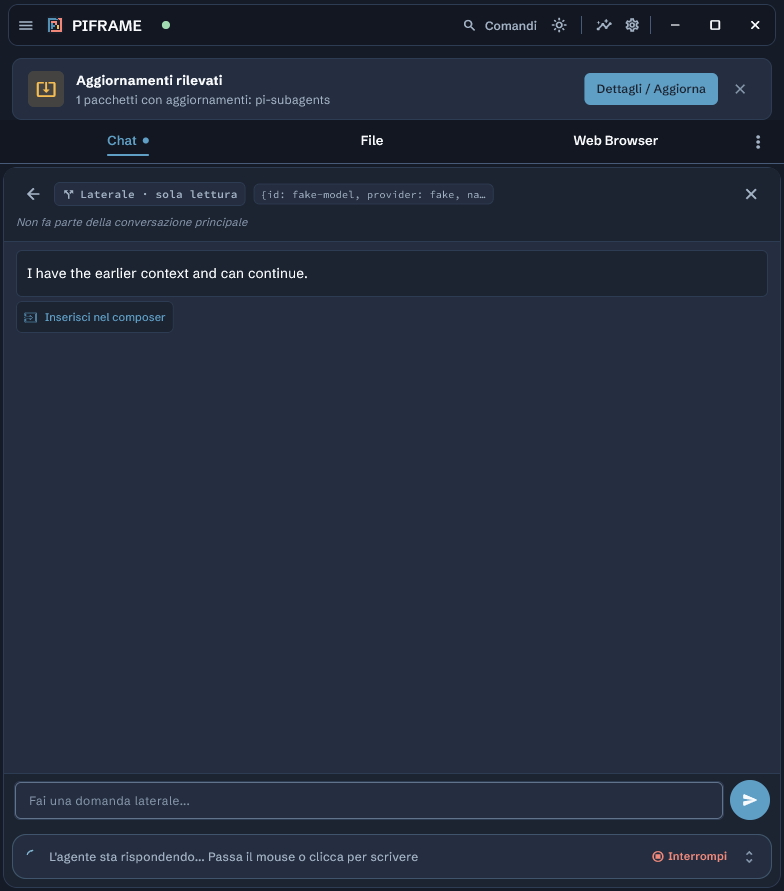
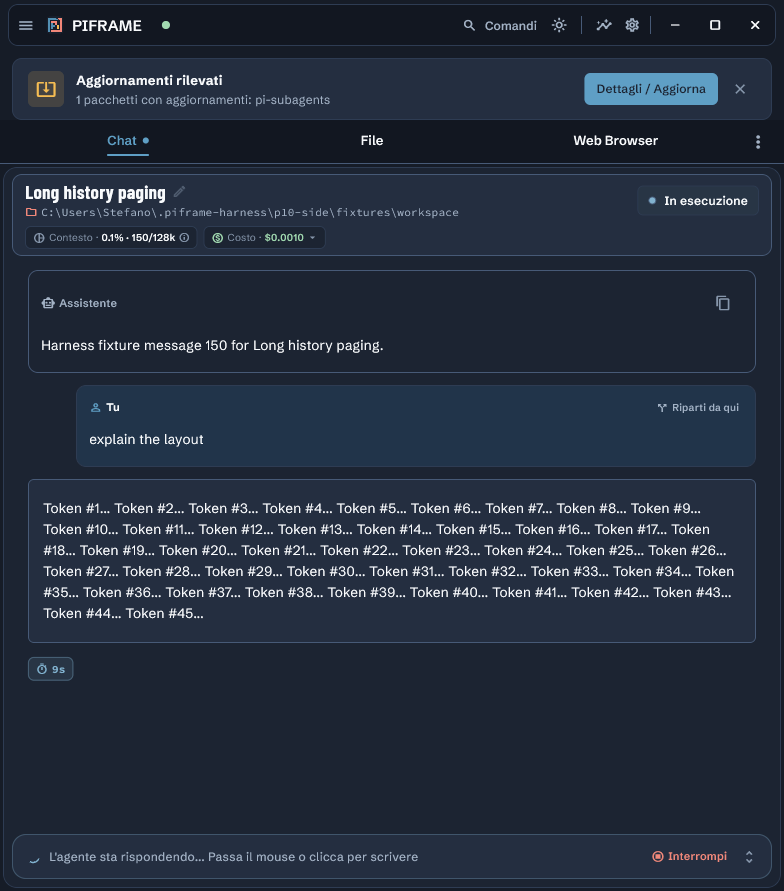
fix(ui): compact tab underline uses the chassis token, not Colors.transparent (task 10.3)
theme_lint_test rejects Colors.* in lib/. The compact tab background and the
unselected underline now use tokens.chassis, the same colour as the row behind
them. Light captures for 10.1 (split) and 10.3 (compact) added; the 10.3 running
capture is replaced with the main chat view.

diff --git a/apps/pi_frame/lib/app/app_shell.dart b/apps/pi_frame/lib/app/app_shell.dart
@@ -2025,7 +2025,7 @@ class _AppShellState extends ConsumerState<AppShell>
                       foregroundColor: pane == selected
                           ? tokens.accent
                           : tokens.textPrimary,
-                      backgroundColor: Colors.transparent,
+                      backgroundColor: tokens.chassis,
                       shape: const RoundedRectangleBorder(),
                     ),
                     onPressed: () => onSelected(pane),
@@ -2036,7 +2036,7 @@ class _AppShellState extends ConsumerState<AppShell>
                           bottom: BorderSide(
                             color: pane == selected
                                 ? tokens.accent
-                                : Colors.transparent,
+                                : tokens.chassis,
                             width: 2,
                           ),
                         ),
